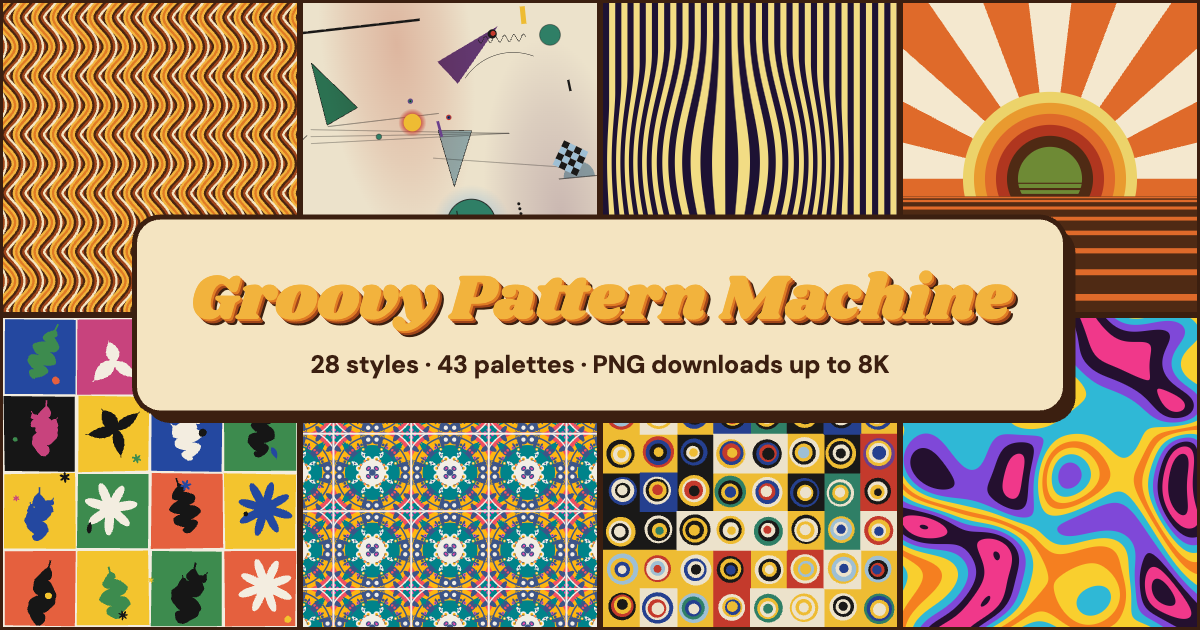
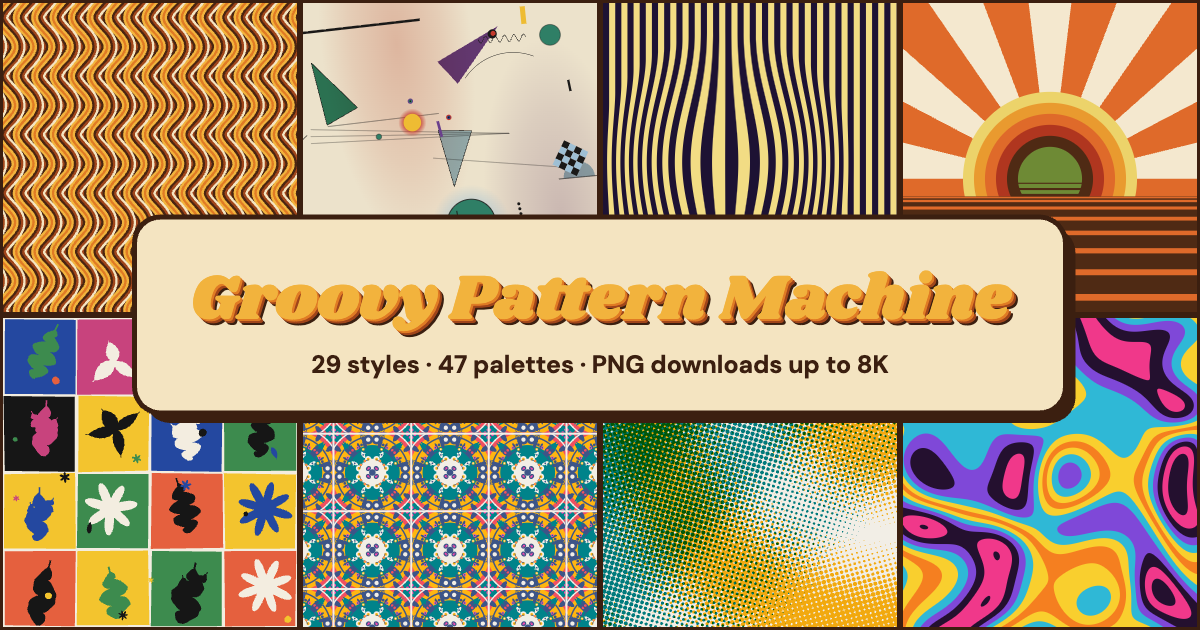
Four artist palettes; preview description; docs and social image
Delaunay, Af Klint, Vasarely and Riley Colour join Modern art (47 palettes).
The preview canvas now describes the style and palette to screen readers.

Changed region(s): [[0.4933, 0.6635, 0.7708, 0.9952], [0.2467, 0.573, 0.74, 0.6032]]

diff --git a/site/js/core.js b/site/js/core.js
@@ -1,5 +1,5 @@
 // Seeded randomness, palettes, the render pipeline and the strip-based PNG exporter.
-import { PATTERNS } from './patterns.js?v=18';
+import { PATTERNS } from './patterns.js?v=19';
 
 export const MAX_SIDE = 8192;
 
@@ -91,6 +91,10 @@ export const PALETTES = [
   P('art', 'midcentury', 'Mid-Century', ['#f1e8d5', '#2c2b29', '#d2552c', '#2d7286', '#e1ad37', '#7d8f3c']),
   P('art', 'ochre', 'Ochre & Slate', ['#e8dbbf', '#3a4a57', '#7b3529', '#c46a3c', '#dcab55', '#6f8b88']),
   P('art', 'memphis', 'Memphis', ['#f7f3ea', '#141414', '#f29ea4', '#2c5fd9', '#7fd1cc', '#f7d046']),
+  P('art', 'delaunay', 'Delaunay', ['#eee5d2', '#1c2c66', '#cf4529', '#eeb036', '#2a8569', '#e58aa3', '#151414']),
+  P('art', 'afklint', 'Af Klint', ['#f1e6d4', '#3a6553', '#e3a39b', '#efc650', '#6d8fc6', '#cf7339']),
+  P('art', 'vasarely', 'Vasarely', ['#16152b', '#2c3b9c', '#55a2d6', '#e44d76', '#f3c544', '#efebe1']),
+  P('art', 'rileycolour', 'Riley Colour', ['#f3efe6', '#3a4a8a', '#1d8c87', '#86b05d', '#d69a3b', '#e47b9f']),
 
   // Pop & op: disco and lava lamps, print-shop inks, and black-and-white optics.
   P('pop', 'disco', 'Disco Inferno', ['#24102f', '#f0388a', '#f57f20', '#f9cf2e', '#2fb8d6', '#7f48d8']),

diff --git a/site/js/app.js b/site/js/app.js
@@ -1,7 +1,7 @@
 import {
   PATTERNS, PATTERNS_BY_ID, PALETTES, PALETTES_BY_ID, PALETTE_GROUPS, MAX_SIDE,
   renderPattern, exportPNG, randomSeed, inventPalette, paletteFromPixels, deltaE,
-} from './core.js?v=18';
+} from './core.js?v=19';
 
 const $ = (id) => document.getElementById(id);
 const dpr = () => Math.min(window.devicePixelRatio || 1, 2);
@@ -432,6 +432,8 @@ function syncControls({ chips = true } = {}) {
   const gen = PATTERNS_BY_ID[state.style];
   $('aboutName').textContent = gen.name;
   $('aboutText').textContent = gen.about;
+  const palName = PALETTES_BY_ID[state.palette]?.name || 'custom colours';
+  preview.setAttribute('aria-label', `${gen.name} pattern in ${palName}${state.age ? `, ${state.age}% vintage` : ''}. ${gen.about}`);
   for (const id of ['scale', 'detail', 'rotation', 'age']) {
     $(id).value = state[id];
     const v = state[id];

diff --git a/site/index.html b/site/index.html
@@ -15,7 +15,7 @@
   <link rel="preconnect" href="https://fonts.googleapis.com">
   <link rel="preconnect" href="https://fonts.gstatic.com" crossorigin>
   <link rel="stylesheet" href="https://fonts.googleapis.com/css2?family=DM+Sans:opsz,wght@9..40,400;9..40,500;9..40,700&family=Shrikhand&display=swap">
-  <link rel="stylesheet" href="css/style.css?v=18">
+  <link rel="stylesheet" href="css/style.css?v=19">
 </head>
 <body>
   <header class="masthead">
@@ -113,6 +113,6 @@
   </div>
 
   <div class="toast" id="toast" role="status" aria-live="polite"></div>
-  <script type="module" src="js/app.js?v=18"></script>
+  <script type="module" src="js/app.js?v=19"></script>
 </body>
 </html>

diff --git a/site/sheet.html b/site/sheet.html
@@ -15,7 +15,7 @@
 <body>
   <div id="grid"></div>
   <script type="module">
-    import { PATTERNS, PALETTES_BY_ID, renderPattern } from './js/core.js?v=18';
+    import { PATTERNS, PALETTES_BY_ID, renderPattern } from './js/core.js?v=19';
     const q = new URLSearchParams(location.search);
     const styles = (q.get('styles') || PATTERNS.map((p) => p.id).join()).split(',');
     const seeds = (q.get('seeds') || 'a,b,c').split(',');

diff --git a/README.md b/README.md
@@ -14,14 +14,14 @@ Everything runs in the browser. There is no server-side code, no build step and 
   - *1970s:* Groovy Waves, Rainbow Scales, Petal Drops, Loop Chain, Ogee Onions, Diamond Nest, Liquid Groove, Flower Power, Supergraphic, Mod Targets, Rainbow Tiles, Sunrise, Kaleidoscope, Parquet
   - *Bauhaus, geometric & op:* Bauhaus Blocks, Kaleido Quilt, Chevron Op, Truchet Rings, Tumbling Blocks, Op Squares, Op Bulge, Op Lines, Halftone
   - *Art & abstract:* Composition, Floating Circles and Color Study (after Kandinsky), De Stijl Grid (after Mondrian), Cut-Outs (after Matisse), Atomic Age
-- **43 curated palettes in four groups:** Seventies, Modern art, Pop & op, and Soft. You can edit any colour, add or remove colours, or shuffle their order. The first colour is the background.
+- **47 curated palettes in four groups:** Seventies, Modern art, Pop & op, and Soft. You can edit any colour, add or remove colours, or shuffle their order. The first colour is the background.
 - **Invent palette** makes up a new palette. Half the time it remixes a curated palette, turning its hues in OKLCH while keeping its value structure. The rest of the time it composes one from pigment rules. Results whose colours sit too close together are rejected and tried again.
 
 ## Palettes
 
 Colour carries these patterns, so every curated palette follows the same rules:
 
-- **Real references.** Each palette is drawn from the period or artist it names, for example 1970s appliance enamels (*Kitchen '74*), Mondrian's red, yellow and blue (*De Stijl*), Kandinsky's *Composition VIII* (*Kandinsky*), Matisse's gouache cut-outs (*Paper Cut-Outs*), Memphis laminates and stencil-printer inks (*Zine Inks*).
+- **Real references.** Each palette is drawn from the period or artist it names, for example 1970s appliance enamels (*Kitchen '74*), Mondrian's red, yellow and blue (*De Stijl*), Kandinsky's *Composition VIII* (*Kandinsky*), Matisse's gouache cut-outs (*Paper Cut-Outs*), Memphis laminates, Sonia Delaunay, Hilma af Klint, Vasarely and Bridget Riley's later colour, and stencil-printer inks (*Zine Inks*).
 - **Paper or ink grounds.** Backgrounds are warm off-whites or deep inks, never pure white or black.
 - **A value structure.** Every palette has a dark anchor, mid tones and a light accent, so a pattern still reads in greyscale.
 - **Pigment-true hues.** Reds lean vermilion or crimson, blues ultramarine or cobalt, and yellows cadmium or ochre, rather than screen primaries.

diff --git a/WORKBOOK.md b/WORKBOOK.md
@@ -13,7 +13,7 @@ site/                 the deployable static site
   index.html          page shell (scripts/bump.py moves ?v=N on css/js)
   js/app.js           UI: state <-> URL hash, preview, variations, thumbnails, palettes, shelf, export
   js/core.js          PRNG/hash, palettes + palette rules, inventPalette(), renderPattern(), exportPNG()
-  js/patterns.js      the 26 pattern generators, drawing helpers and ABOUT descriptions
+  js/patterns.js      the 29 pattern generators, drawing helpers and ABOUT descriptions
   css/style.css       70s theme, light and dark
   sheet.html          dev contact sheet (not deployed)
   og.png, favicon.svg social preview and icon
@@ -41,6 +41,6 @@ The site is static and lives on the shared mcchord.net server (`ssh mcchord.net`
 ## Known limits
 
 - Exports need `CompressionStream`, which is in all current browsers. Older browsers fall back to `canvas.toBlob`, which is limited by their maximum canvas size.
-- 8K UHD export times on a laptop (2026-11-03, all 27 styles): 0.6–1.8 s for most; Composition, Floating Circles, Op Bulge and Op Lines take 2.5–3 s; Liquid Groove takes 4.2 s. Strips yield with a MessageChannel, not setTimeout, so exports don't slow down in background tabs.
+- 8K UHD export times on a laptop (2026-11-03, measured on the first 27 styles; Parquet and Halftone are under 1 s at default settings, Halftone about 2 s at its finest): 0.6–1.8 s for most; Composition, Floating Circles, Op Bulge and Op Lines take 2.5–3 s; Liquid Groove takes 4.2 s. Strips yield with a MessageChannel, not setTimeout, so exports don't slow down in background tabs.
 - Export strips use a software-rasterised canvas (`willReadFrequently`), so every strip is drawn the same way.
 - Saved patterns ("Your shelf") live in the viewer's localStorage only; they are not synced anywhere.

diff --git a/docs/progress/JOURNAL.md b/docs/progress/JOURNAL.md
@@ -69,4 +69,15 @@
   - Palette names fit at phone width.
 - Tooling: `scripts/serve.py`, a no-cache preview server, after a stale cached module hid a change during QA; and `scripts/bump.py` for cache busters.
 
-**Next:** possible extras are seamless-tile export and SVG export for the vector styles.
+- Final hour:
+  - Vintage slider: aging done in OKLab, so blues fade to slate rather than purple.
+  - Sort inks, and a warning when two colours nearly match.
+  - Full screen view.
+  - Hover previews for styles and palettes.
+  - Parquet and Halftone styles.
+  - Four artist palettes: Delaunay, Af Klint, Vasarely and Riley Colour.
+  - Screen-reader description of the preview.
+  - Strips now yield with a MessageChannel, so exports don't crawl in background tabs.
+- Totals: 29 styles, 47 palettes.
+
+**Next:** possible extras are seamless-tile export for the lattice styles and SVG export for the vector styles.
